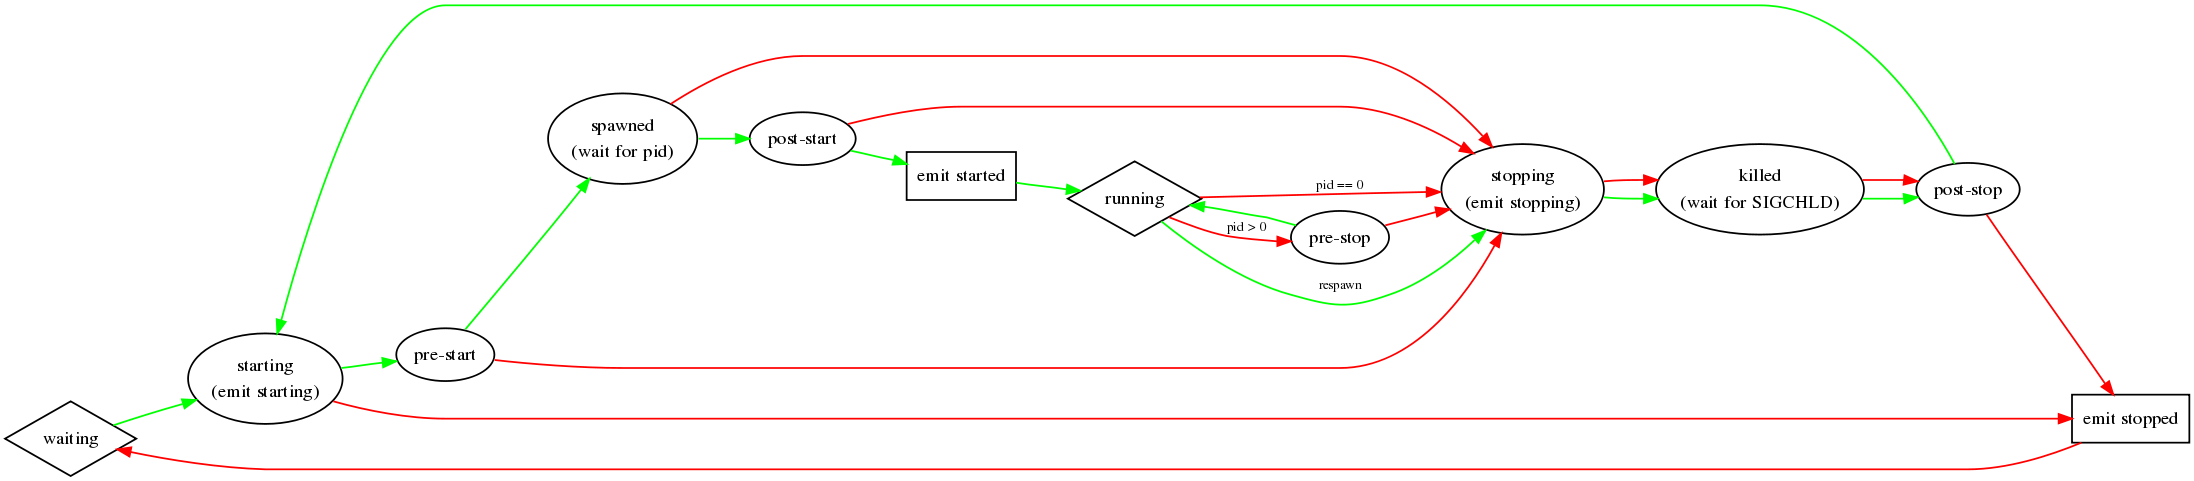
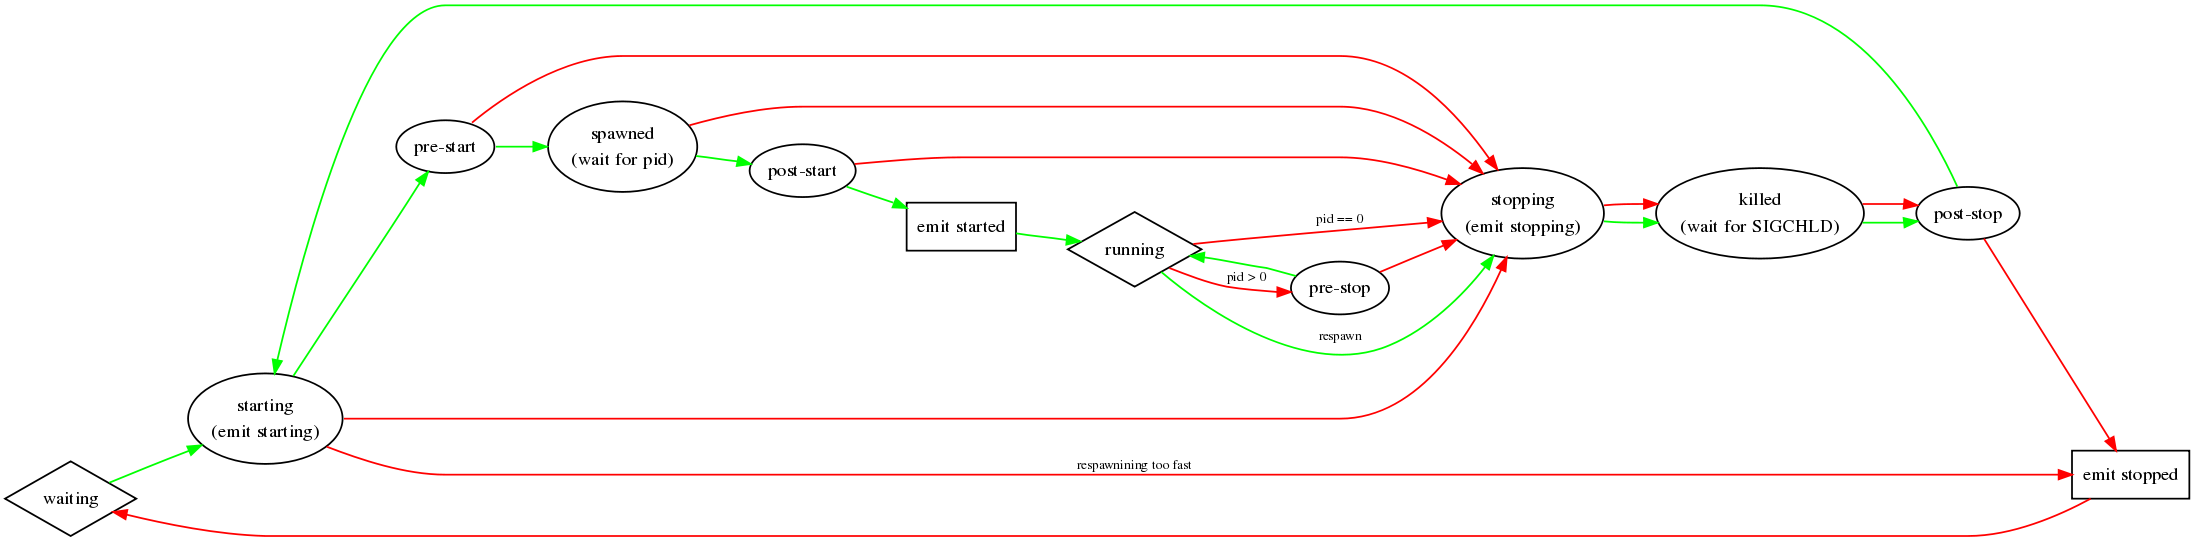
* init/job.c (job_change_state): Hardcode the next state when we catch a runaway job to be JOB_WAITING. (job_next_state): Change next state for JOB_STARTING when goal is JOB_STOP to be JOB_STOPPING for consistency with the others; otherwise if our goal is stopped during our starting event, we'll nev

diff --git a/init/job.c b/init/job.c
@@ -664,7 +664,7 @@ job_change_state (Job      *job,
 					  job->config->name, job->id);
 
 				job_change_goal (job, JOB_STOP);
-				state = job_next_state (job);
+				state = JOB_WAITING;
 
 				if (! job->failed) {
 					job->failed = TRUE;
@@ -856,7 +856,7 @@ job_next_state (Job *job)
 	case JOB_STARTING:
 		switch (job->goal) {
 		case JOB_STOP:
-			return JOB_WAITING;
+			return JOB_STOPPING;
 		case JOB_START:
 			return JOB_PRE_START;
 		}

diff --git a/init/tests/test_job.c b/init/tests/test_job.c
@@ -2721,13 +2721,13 @@ test_next_state (void)
 
 
 	/* Check that the next state if we're stopping a starting job is
-	 * waiting.
+	 * stpoping.
 	 */
 	TEST_FEATURE ("with starting job and a goal of stop");
 	job->goal = JOB_STOP;
 	job->state = JOB_STARTING;
 
-	TEST_EQ (job_next_state (job), JOB_WAITING);
+	TEST_EQ (job_next_state (job), JOB_STOPPING);
 
 
 	/* Check that the next state if we're starting a starting job is
